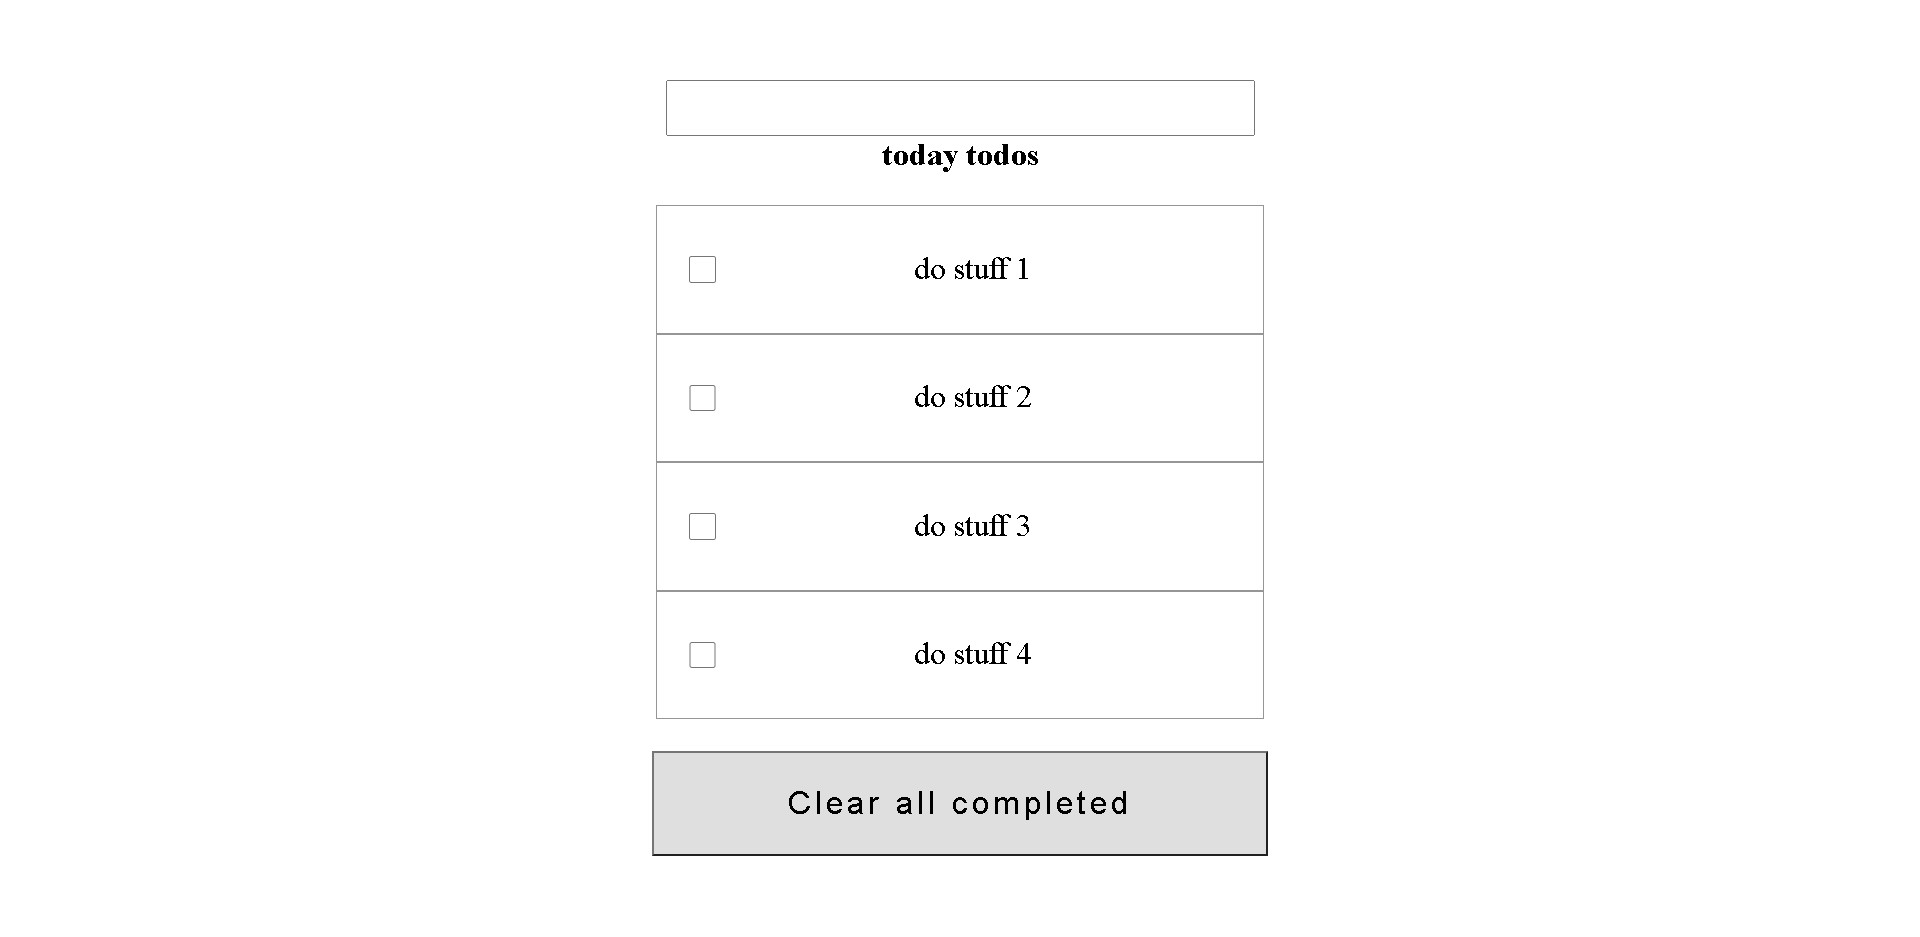
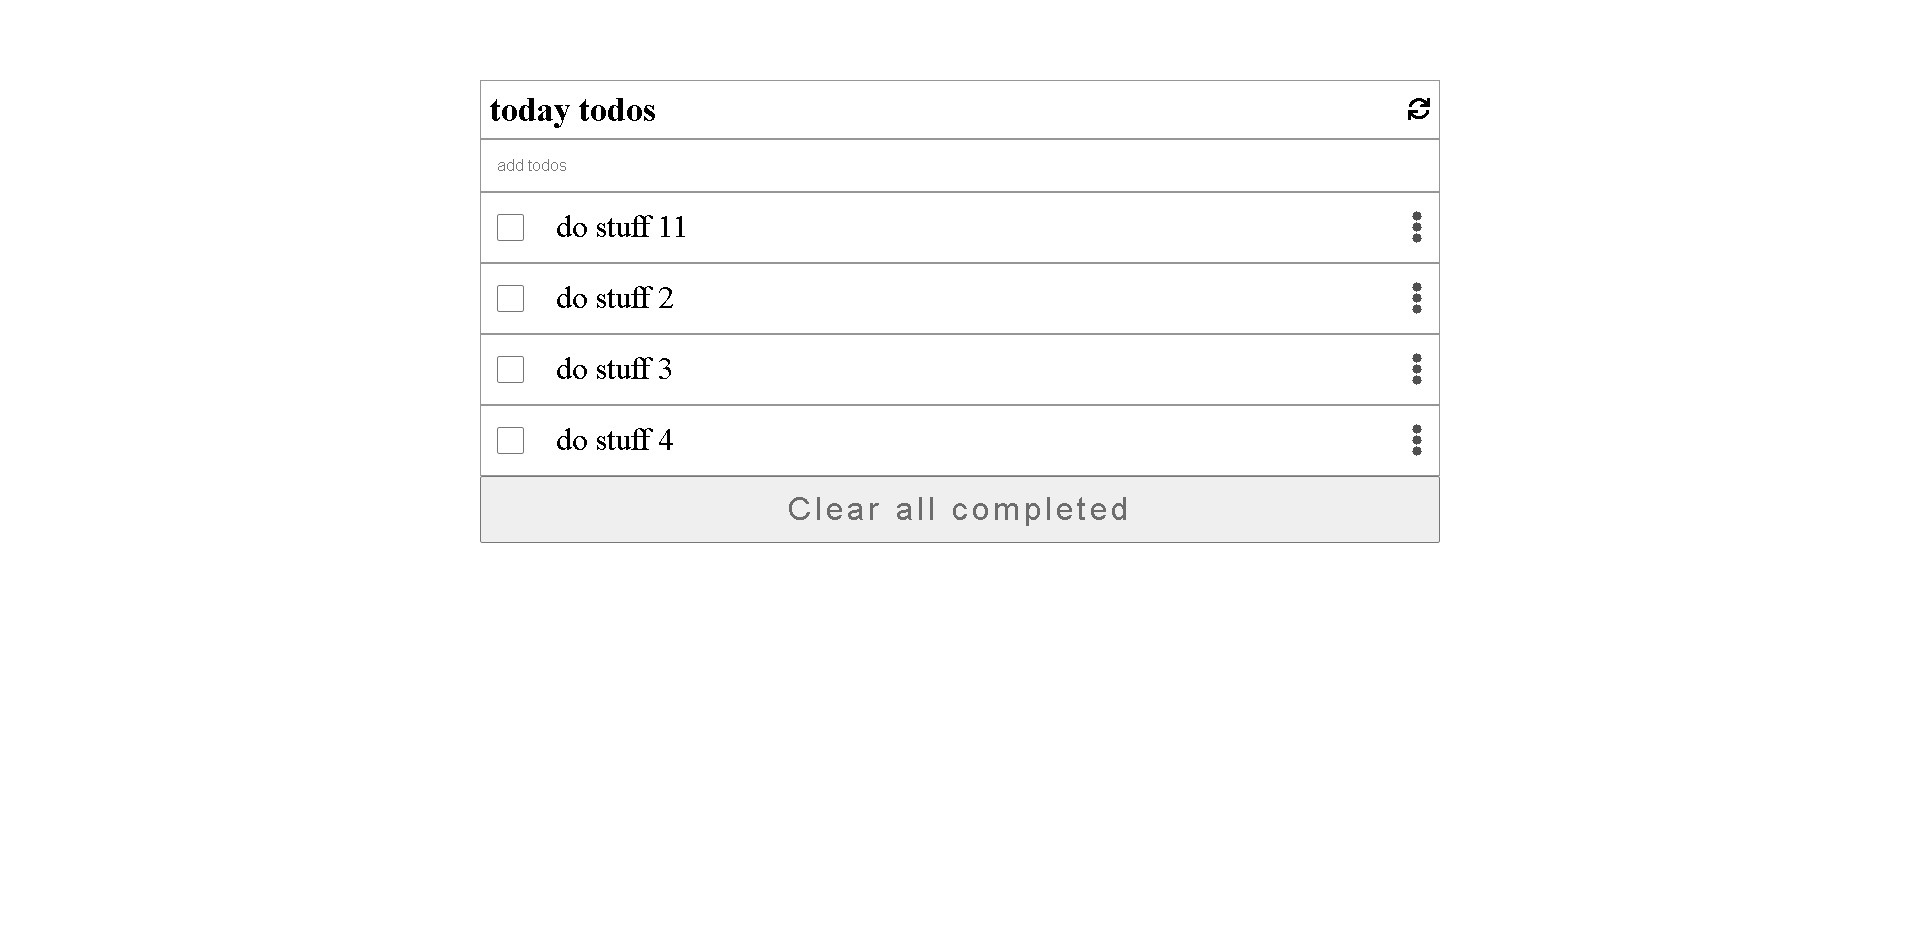
update

diff --git a/dist/main.js b/dist/main.js
@@ -1,1 +1,1 @@
-(()=>{"use strict";var e={426:(e,n,r)=>{r.d(n,{Z:()=>o});var t=r(645),i=r.n(t)()((function(e){return e[1]}));i.push([e.id,"* {\r\n  margin: 0;\r\n  padding: 0;\r\n}\r\n\r\n.main-div {\r\n  display: flex;\r\n  flex-direction: column;\r\n  justify-content: center;\r\n  align-items: center;\r\n  margin-top: 5em;\r\n}\r\n\r\n.ibput-box {\r\n  padding: 0.5em 12em 0.5em 1em;\r\n  font-size: 1.5em;\r\n}\r\n\r\n.main-div h2 {\r\n  font-size: 2em;\r\n}\r\n\r\nul {\r\n  display: flex;\r\n  flex-direction: column;\r\n  padding: 2em;\r\n}\r\n\r\nul li {\r\n  display: flex;\r\n  justify-content: space-between;\r\n  align-items: center;\r\n  font-size: 2em;\r\n  border: 1px solid rgba(0, 0, 0, 0.411);\r\n  padding: 0.5em;\r\n}\r\n\r\nul li p {\r\n  padding: 0 9em 0 1em;\r\n}\r\n\r\nul li input {\r\n  width: 2em;\r\n  height: 2em;\r\n}\r\n\r\nul li div {\r\n  display: flex;\r\n  align-items: center;\r\n}\r\n\r\n.clear-btn {\r\n  font-size: 2em;\r\n  letter-spacing: 4px;\r\n  font-weight: 400 !important;\r\n  background-color: rgb(223, 223, 223);\r\n  color: #000;\r\n  padding: 1em 4.2em;\r\n  width: max-content;\r\n  cursor: pointer;\r\n  transition: all 0.3s 0s ease-in-out;\r\n}\r\n",""]);const o=i},645:e=>{e.exports=function(e){var n=[];return n.toString=function(){return this.map((function(n){var r=e(n);return n[2]?"@media ".concat(n[2]," {").concat(r,"}"):r})).join("")},n.i=function(e,r,t){"string"==typeof e&&(e=[[null,e,""]]);var i={};if(t)for(var o=0;o<this.length;o++){var a=this[o][0];null!=a&&(i[a]=!0)}for(var c=0;c<e.length;c++){var s=[].concat(e[c]);t&&i[s[0]]||(r&&(s[2]?s[2]="".concat(r," and ").concat(s[2]):s[2]=r),n.push(s))}},n}},379:e=>{var n=[];function r(e){for(var r=-1,t=0;t<n.length;t++)if(n[t].identifier===e){r=t;break}return r}function t(e,t){for(var o={},a=[],c=0;c<e.length;c++){var s=e[c],d=t.base?s[0]+t.base:s[0],l=o[d]||0,u="".concat(d," ").concat(l);o[d]=l+1;var p=r(u),f={css:s[1],media:s[2],sourceMap:s[3]};-1!==p?(n[p].references++,n[p].updater(f)):n.push({identifier:u,updater:i(f,t),references:1}),a.push(u)}return a}function i(e,n){var r=n.domAPI(n);return r.update(e),function(n){if(n){if(n.css===e.css&&n.media===e.media&&n.sourceMap===e.sourceMap)return;r.update(e=n)}else r.remove()}}e.exports=function(e,i){var o=t(e=e||[],i=i||{});return function(e){e=e||[];for(var a=0;a<o.length;a++){var c=r(o[a]);n[c].references--}for(var s=t(e,i),d=0;d<o.length;d++){var l=r(o[d]);0===n[l].references&&(n[l].updater(),n.splice(l,1))}o=s}}},569:e=>{var n={};e.exports=function(e,r){var t=function(e){if(void 0===n[e]){var r=document.querySelector(e);if(window.HTMLIFrameElement&&r instanceof window.HTMLIFrameElement)try{r=r.contentDocument.head}catch(e){r=null}n[e]=r}return n[e]}(e);if(!t)throw new Error("Couldn't find a style target. This probably means that the value for the 'insert' parameter is invalid.");t.appendChild(r)}},216:e=>{e.exports=function(e){var n=document.createElement("style");return e.setAttributes(n,e.attributes),e.insert(n),n}},565:(e,n,r)=>{e.exports=function(e){var n=r.nc;n&&e.setAttribute("nonce",n)}},795:e=>{e.exports=function(e){var n=e.insertStyleElement(e);return{update:function(r){!function(e,n,r){var t=r.css,i=r.media,o=r.sourceMap;i?e.setAttribute("media",i):e.removeAttribute("media"),o&&"undefined"!=typeof btoa&&(t+="\n/*# sourceMappingURL=data:application/json;base64,".concat(btoa(unescape(encodeURIComponent(JSON.stringify(o))))," */")),n.styleTagTransform(t,e)}(n,e,r)},remove:function(){!function(e){if(null===e.parentNode)return!1;e.parentNode.removeChild(e)}(n)}}}},589:e=>{e.exports=function(e,n){if(n.styleSheet)n.styleSheet.cssText=e;else{for(;n.firstChild;)n.removeChild(n.firstChild);n.appendChild(document.createTextNode(e))}}}},n={};function r(t){var i=n[t];if(void 0!==i)return i.exports;var o=n[t]={id:t,exports:{}};return e[t](o,o.exports,r),o.exports}r.n=e=>{var n=e&&e.__esModule?()=>e.default:()=>e;return r.d(n,{a:n}),n},r.d=(e,n)=>{for(var t in n)r.o(n,t)&&!r.o(e,t)&&Object.defineProperty(e,t,{enumerable:!0,get:n[t]})},r.o=(e,n)=>Object.prototype.hasOwnProperty.call(e,n),(()=>{var e=r(379),n=r.n(e),t=r(795),i=r.n(t),o=r(569),a=r.n(o),c=r(565),s=r.n(c),d=r(216),l=r.n(d),u=r(589),p=r.n(u),f=r(426),m={};m.styleTagTransform=p(),m.setAttributes=s(),m.insert=a().bind(null,"head"),m.domAPI=i(),m.insertStyleElement=l(),n()(f.Z,m),f.Z&&f.Z.locals&&f.Z.locals;const v=document.querySelector(".the-list");[{description:"do stuff 11",completed:!1,index:0},{description:"do stuff 2",completed:!1,index:1},{description:"do stuff 3",completed:!1,index:2},{description:"do stuff 4",completed:!1,index:3}].forEach((e=>{((e,n)=>{const r=document.createElement("li"),t=document.createElement("p"),i=document.createElement("i"),o=document.createElement("div");t.innerHTML=e;const a=document.createElement("input");a.setAttribute("type","checkbox"),i.setAttribute("class","fas fa-ellipsis-v"),a.checked=n,o.appendChild(a),o.appendChild(t),r.appendChild(o),r.appendChild(i),v.appendChild(r)})(e.description,e.completed)}))})()})();
+(()=>{"use strict";var e={426:(e,n,r)=>{r.d(n,{Z:()=>o});var t=r(645),i=r.n(t)()((function(e){return e[1]}));i.push([e.id,"* {\r\n  margin: 0;\r\n  padding: 0;\r\n  box-sizing: border-box;\r\n}\r\n\r\n.main-div {\r\n  display: flex;\r\n  flex-direction: column;\r\n  justify-content: center;\r\n  align-items: center;\r\n  margin-top: 5em;\r\n}\r\n\r\n.todo-header {\r\n  display: flex;\r\n  align-items: center;\r\n  justify-content: space-between;\r\n  width: 50%;\r\n  margin: 0 auto;\r\n  border: 1px solid rgba(0, 0, 0, 0.411);\r\n  font-size: 1.4em;\r\n  padding: 0.4em;\r\n}\r\n\r\n.ibput-box {\r\n  padding: 1em;\r\n  border: 1px solid rgba(0, 0, 0, 0.411);\r\n  width: 50%;\r\n  font-size: 1em;\r\n}\r\n\r\n.main-div h2 {\r\n  margin-right: 9em;\r\n}\r\n\r\nul {\r\n  width: 50%;\r\n}\r\n\r\nul li {\r\n  display: flex;\r\n  justify-content: space-between;\r\n  align-items: center;\r\n  font-size: 2em;\r\n  border: 1px solid rgba(0, 0, 0, 0.411);\r\n  padding: 0.5em;\r\n}\r\n\r\nul li p {\r\n  padding: 0 9em 0 1em;\r\n}\r\n\r\nul li i {\r\n  color: rgb(80, 80, 80);\r\n}\r\n\r\nul li i:hover {\r\n  cursor: all-scroll;\r\n}\r\n\r\nul li input {\r\n  width: 2em;\r\n  height: 2em;\r\n}\r\n\r\nul li div {\r\n  display: flex;\r\n  align-items: center;\r\n}\r\n\r\n.clear-btn {\r\n  font-size: 2em;\r\n  letter-spacing: 4px;\r\n  font-weight: 400 !important;\r\n  color: rgb(110, 109, 109);\r\n  padding: 0.4em;\r\n  width: 50%;\r\n  cursor: pointer;\r\n  transition: all 0.3s 0s ease-in-out;\r\n}\r\n",""]);const o=i},645:e=>{e.exports=function(e){var n=[];return n.toString=function(){return this.map((function(n){var r=e(n);return n[2]?"@media ".concat(n[2]," {").concat(r,"}"):r})).join("")},n.i=function(e,r,t){"string"==typeof e&&(e=[[null,e,""]]);var i={};if(t)for(var o=0;o<this.length;o++){var a=this[o][0];null!=a&&(i[a]=!0)}for(var s=0;s<e.length;s++){var c=[].concat(e[s]);t&&i[c[0]]||(r&&(c[2]?c[2]="".concat(r," and ").concat(c[2]):c[2]=r),n.push(c))}},n}},379:e=>{var n=[];function r(e){for(var r=-1,t=0;t<n.length;t++)if(n[t].identifier===e){r=t;break}return r}function t(e,t){for(var o={},a=[],s=0;s<e.length;s++){var c=e[s],d=t.base?c[0]+t.base:c[0],l=o[d]||0,u="".concat(d," ").concat(l);o[d]=l+1;var p=r(u),f={css:c[1],media:c[2],sourceMap:c[3]};-1!==p?(n[p].references++,n[p].updater(f)):n.push({identifier:u,updater:i(f,t),references:1}),a.push(u)}return a}function i(e,n){var r=n.domAPI(n);return r.update(e),function(n){if(n){if(n.css===e.css&&n.media===e.media&&n.sourceMap===e.sourceMap)return;r.update(e=n)}else r.remove()}}e.exports=function(e,i){var o=t(e=e||[],i=i||{});return function(e){e=e||[];for(var a=0;a<o.length;a++){var s=r(o[a]);n[s].references--}for(var c=t(e,i),d=0;d<o.length;d++){var l=r(o[d]);0===n[l].references&&(n[l].updater(),n.splice(l,1))}o=c}}},569:e=>{var n={};e.exports=function(e,r){var t=function(e){if(void 0===n[e]){var r=document.querySelector(e);if(window.HTMLIFrameElement&&r instanceof window.HTMLIFrameElement)try{r=r.contentDocument.head}catch(e){r=null}n[e]=r}return n[e]}(e);if(!t)throw new Error("Couldn't find a style target. This probably means that the value for the 'insert' parameter is invalid.");t.appendChild(r)}},216:e=>{e.exports=function(e){var n=document.createElement("style");return e.setAttributes(n,e.attributes),e.insert(n),n}},565:(e,n,r)=>{e.exports=function(e){var n=r.nc;n&&e.setAttribute("nonce",n)}},795:e=>{e.exports=function(e){var n=e.insertStyleElement(e);return{update:function(r){!function(e,n,r){var t=r.css,i=r.media,o=r.sourceMap;i?e.setAttribute("media",i):e.removeAttribute("media"),o&&"undefined"!=typeof btoa&&(t+="\n/*# sourceMappingURL=data:application/json;base64,".concat(btoa(unescape(encodeURIComponent(JSON.stringify(o))))," */")),n.styleTagTransform(t,e)}(n,e,r)},remove:function(){!function(e){if(null===e.parentNode)return!1;e.parentNode.removeChild(e)}(n)}}}},589:e=>{e.exports=function(e,n){if(n.styleSheet)n.styleSheet.cssText=e;else{for(;n.firstChild;)n.removeChild(n.firstChild);n.appendChild(document.createTextNode(e))}}}},n={};function r(t){var i=n[t];if(void 0!==i)return i.exports;var o=n[t]={id:t,exports:{}};return e[t](o,o.exports,r),o.exports}r.n=e=>{var n=e&&e.__esModule?()=>e.default:()=>e;return r.d(n,{a:n}),n},r.d=(e,n)=>{for(var t in n)r.o(n,t)&&!r.o(e,t)&&Object.defineProperty(e,t,{enumerable:!0,get:n[t]})},r.o=(e,n)=>Object.prototype.hasOwnProperty.call(e,n),(()=>{var e=r(379),n=r.n(e),t=r(795),i=r.n(t),o=r(569),a=r.n(o),s=r(565),c=r.n(s),d=r(216),l=r.n(d),u=r(589),p=r.n(u),f=r(426),m={};m.styleTagTransform=p(),m.setAttributes=c(),m.insert=a().bind(null,"head"),m.domAPI=i(),m.insertStyleElement=l(),n()(f.Z,m),f.Z&&f.Z.locals&&f.Z.locals;const h=document.querySelector(".the-list");[{description:"do stuff 11",completed:!1,index:0},{description:"do stuff 2",completed:!1,index:1},{description:"do stuff 3",completed:!1,index:2},{description:"do stuff 4",completed:!1,index:3}].forEach((e=>{((e,n)=>{const r=document.createElement("li"),t=document.createElement("p"),i=document.createElement("i"),o=document.createElement("div");t.innerHTML=e;const a=document.createElement("input");a.setAttribute("type","checkbox"),i.setAttribute("class","fas fa-ellipsis-v"),a.checked=n,o.appendChild(a),o.appendChild(t),r.appendChild(o),r.appendChild(i),h.appendChild(r)})(e.description,e.completed)}))})()})();

diff --git a/dist/index.html b/dist/index.html
@@ -1,1 +1,1 @@
-<!doctype html><html lang="en"><head><meta charset="UTF-8"/><link rel="stylesheet" href="https://use.fontawesome.com/releases/v5.15.1/css/all.css" integrity="sha384-vp86vTRFVJgpjF9jiIGPEEqYqlDwgyBgEF109VFjmqGmIY/Y4HV4d3Gp2irVfcrp" crossorigin="anonymous"/><meta name="viewport" content="width=device-width,initial-scale=1"/><title>Todo List</title><script defer="defer" src="main.js"></script></head><body><div class="main-div"><input class="ibput-box" placeholder="add todos"/><h2>today todos</h2><ul class="the-list"></ul><button class="clear-btn">Clear all completed</button></div></body></html>
+<!doctype html><html lang="en"><head><meta charset="UTF-8"/><link rel="stylesheet" href="https://use.fontawesome.com/releases/v5.15.1/css/all.css" integrity="sha384-vp86vTRFVJgpjF9jiIGPEEqYqlDwgyBgEF109VFjmqGmIY/Y4HV4d3Gp2irVfcrp" crossorigin="anonymous"/><meta name="viewport" content="width=device-width,initial-scale=1"/><title>Todo List</title><script defer="defer" src="main.js"></script></head><body><div class="main-div"><div class="todo-header"><h2>today todos</h2><i class="fas fa-sync"></i></div><input class="ibput-box" placeholder="add todos"/><ul class="the-list"></ul><button class="clear-btn">Clear all completed</button></div></body></html>

diff --git a/SRC/index.js b/SRC/index.js
@@ -1,4 +1,5 @@
 import './style.css';
+
 const theList = document.querySelector('.the-list');
 
 const listItem = [
